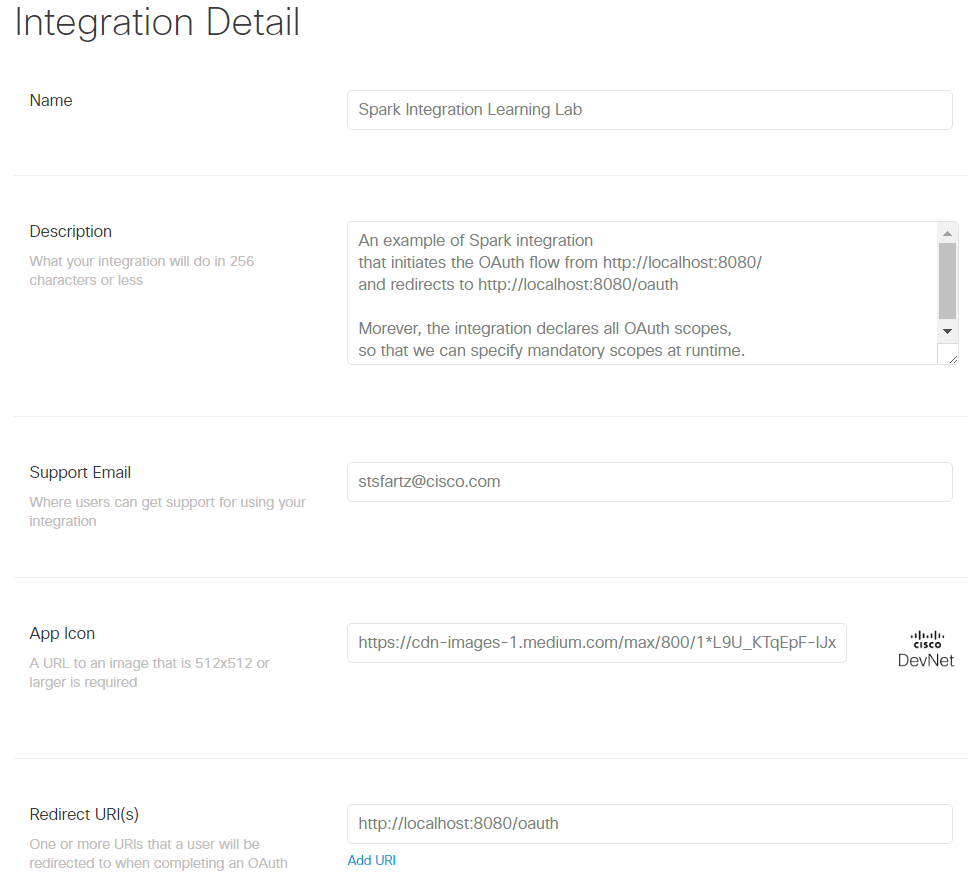
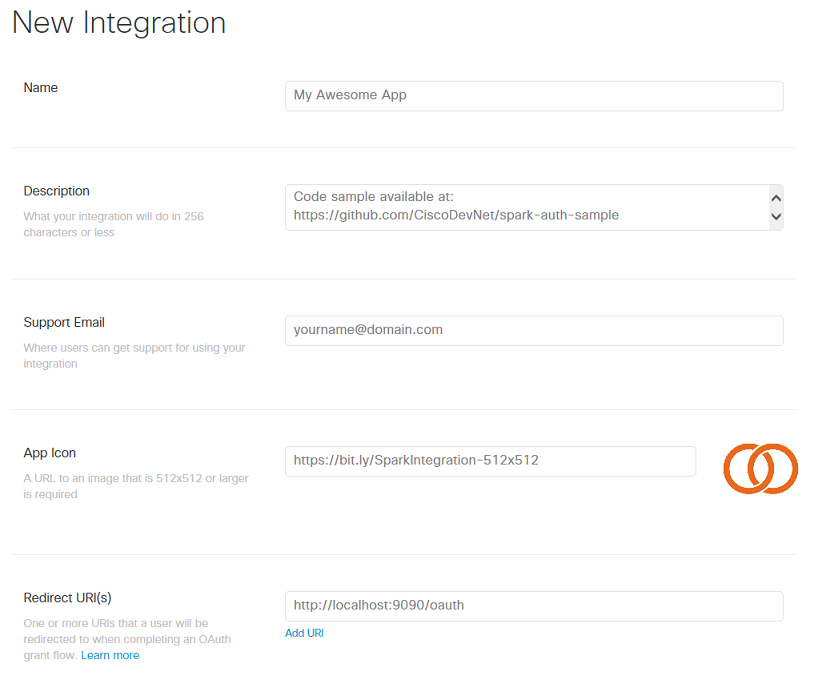
simplified instructions: introduced 9090 port, removed shell scripts samples

diff --git a/server.js b/server.js
@@ -25,7 +25,8 @@ var app = express();
 //
[2 lines of base64/hex data omitted]
-var redirectURI = process.env.REDIRECT_URI || "http://localhost:8080/oauth"; // where your integration is waiting for Cisco Spark to redirect and send the authorization code
+var port = process.env.PORT || 8080;
+var redirectURI = process.env.REDIRECT_URI || `http://localhost:${port}/oauth`; // where your integration is waiting for Cisco Spark to redirect and send the authorization code
 var state = process.env.STATE || "CiscoDevNet"; // state can be used for security and/or correlation purposes
 var scopes = "spark:people_read"; // extend permission with Spark OAuth scopes required by your example, supported scopes are: https://developer.ciscospark.com/add-integration.html
 
@@ -45,7 +46,7 @@ var initiateURL = "https://api.ciscospark.com/v1/authorize?"
     + "&state=" + state;
 var read = require("fs").readFileSync;
 var join = require("path").join;
-var str = read(join(__dirname, '/www/initiate.ejs'), 'utf8');
+var str = read(join(__dirname, '/www/index.ejs'), 'utf8');
 var ejs = require("ejs");
 var compiled = ejs.compile(str)({ "link": initiateURL }); // inject the link into the template
 app.get("/index.html", function (req, res) {
@@ -55,6 +56,7 @@ app.get("/index.html", function (req, res) {
 app.get("/", function (req, res) {
     res.redirect("/index.html");
 });
+
 // -------------------------------------------------------------
 // Statically serve the "/www" directory
 // WARNING: Do not move the 2 lines of code below, as we need this exact precedance order for the static and dynamic HTML generation to work correctly all together
@@ -228,19 +230,23 @@ function oauthFlowCompleted(access_token, res) {
         }
 
         // Uncomment to send feedback via static HTML code 
-        //res.send("<h1>OAuth Integration example for Cisco Spark (static HTML)</h1><p>So happy to meet, " + json.displayName + " !</p>");
+        // res.send("<h1>OAuth Integration example for Cisco Spark (static HTML)</h1><p>So happy to meet, " + json.displayName + " !</p>");
         // OR leverage an EJS template
+        var disconnectURL = "https://idbroker.webex.com/idb/oauth2/v1/logout?"
+        + "goto=" + encodeURIComponent(`http://localhost:${port}`)
+        + "&token=" + access_token;
         var str = read(join(__dirname, '/www/display-name.ejs'), 'utf8');
-        var compiled = ejs.compile(str)({ "displayName": json.displayName });
+        var compiled = ejs.compile(str)({ "displayName": json.displayName });        
         res.send(compiled);
     });
 }
+
 
 // The idea here is to store the access token for future use, and the expiration dates and refresh_token to have Cisco Spark issue a new access token
 function storeTokens(access_token, expires_in, refresh_token, refresh_token_expires_in) {
 
     // Store the token in some secure backend
-    debug("TODO: store tokens and expiration dates in a safe place");
+    debug("TODO: store tokens and expiration dates");
 
     // For demo purpose, we'll NOW ask for a refreshed token
     refreshAccessToken(refresh_token);
@@ -290,7 +296,6 @@ function refreshAccessToken(refresh_token) {
 
 
 // Starts the Cisco Spark Integration
-var port = process.env.OVERRIDE_PORT || process.env.PORT || 8080;
 app.listen(port, function () {
     debug("Cisco Spark OAuth Integration started on port: " + port);
 });

diff --git a/README.md b/README.md
@@ -2,7 +2,7 @@
 
 This Spark Integration example illustrates an OAuth Grant flow at the end of which the Spark User who granted permission will see his full name displayed.
 
-It comes as a companion to the [DevNet Learning Lab about creating Cisco Spark OAuth integrations](https://learninglabs.cisco.com/tracks/collab-cloud/spark-apps/collab-spark-intl/step/1).
+It comes as a companion to the DevNet learning lab: [Run a Cisco Spark Integration locally](https://learninglabs.cisco.com/tracks/collab-cloud/spark-apps/collab-spark-intl/step/1).
 
 ![](docs/img/OAuth-Flow-Sumpup.png)
 
@@ -13,67 +13,96 @@ The flow initiates at http://localhost:8080/, and Cisco Spark Oauth Flow redirec
 In real world, you'll register and deploy your integration on a public URL, check the guide below to [register your own integration](#https://github.com/CiscoDevNet/spark-integration-sample#to-register-your-own-spark-oauth-integration).
 
 
-## Run it locally
-
-This example leverages a pre-registered Spark integration with a Redirect URL on localhost so that it can be run with minimal setup:
+## Run the sample locally
 
 ``` bash
-> git clone https://github.com/CiscoDevNet/spark-integration-sample
-> cd spark-integration-sample
-> npm install
-> make
[1 lines of base64/hex data omitted]
-oauth Cisco Spark OAuth Integration started on port: 8080 +0ms
+git clone https://github.com/CiscoDevNet/spark-integration-sample
+cd spark-integration-sample
+npm install
+DEBUG=oauth* node server.js
 ```
 
-You're all set, your integration is live ! 
-Now, let's go through the OAuth flow.
+You're all set, the integration sample is live! 
+Let's go through the OAuth flow.
 
-Start by opening the Spark integration home page hosted at [http://localhost:8080](http://localhost:8080):
+Reach to the integration home page from a Web browser: open [http://localhost:8080](http://localhost:8080):
 
 ![](docs/img/OAuth-Flow-Step1-Initiate-From-EJS.png)
 
-Click Start, specify your Spark account email and accept (or decline) the authorization scopes:
+
+Click Start, enter your Spark account email and click accept (or decline):
 
 ![](docs/img/OAuth-Flow-Step2-User-Decline-Accept.png)
- 
-If you accepted, the Spark integration you're running locally just got issued an Access Token that can now act on your behalf.
+
+
+If you accepted, the Spark integration you're running locally just got issued an "Cisco Spark API access token" that the code can now act on your behalf.
 The integration custom code logic asks Cisco Spark for your Person details and displays your full name.
 
 ![](docs/img/OAuth-Flow-Step3-Custom-Logic.png)
 
 
-## How to register your own Spark OAuth Integration
+## Registering your own Spark OAuth Integration
 
 To learn more about Cisco Spark Integration, [read the reference documentation](https://developer.ciscospark.com/authentication.html).
 
-In the example above, we were running a pre-registered OAuth integration.
-Let's now register our own Cisco Spark integration.
+In the example above, we were running a pre-registered OAuth integration running on port 8080.
+Let's now register a new Cisco Spark integration that we will be running on port 9090.
 
-Go to [Spark for developers](https://developer.ciscospark.com) portal, click Apps, add Apps, and then [create an integration](https://developer.ciscospark.com/add-integration.html).
+Go to [Spark for developers](https://developer.ciscospark.com) portal, click 'Apps', 'add Apps', and then [create an integration](https://developer.ciscospark.com/add-integration.html).
 
-> The step by step guide below shows how to register a Spark Integration running on your local machine (localhost).
-> In the real-world, you will want to deploy your integration on the internet, and register its public URL rather than your local machine.
+Fill the form fields:
+- **Name**: your app name, such as 'My Awesome App' in the snapshot below,
+- **Description**: these details are not displayed to your app end-users,
+- **Support email**: a valid email address for Cisco Spark operations team to reach to you if necessary,
+- **App Icon**: an URL pointing to an image with a resolution of 512x512 pixels minimum. Feel free to use this provided sample for now: [https://bit.ly/SparkIntegration-512x512](https://bit.ly/SparkIntegration-512x512)
+- **Redirect URI**: enter `http://localhost:9090/oauth` since this is the URL at which the provided code sample will be listening on your local machine. More to come in the next steps if this lab
+- **Scopes**: select the `spark:people_read` and `spark:rooms_read` scopes. 
 
 ![](docs/img/OAuth-Flow-Step0-create-integration.png)
 
-Select all OAuth scopes by default, or simply go with the limited set of permissions your code really needs. 
-Note that even though we chose ALL scopes for now, we will [refine the scopes later in our code](https://github.com/CiscoDevNet/spark-integration-sample/blob/master/server.js#L30) in order to conform to our code's real needs.
 
-![](docs/img/OAuth-Flow-Step0-select-all-scopes.png)
+> Note the list of scopes you selected corresponds to the maximum set of scopes that your integration will be entitled to ask for. However, from code, your integration can dynamically [refine the set of scopes asked for](https://github.com/CiscoDevNet/spark-integration-sample/blob/master/server.js#L30) in order to comply with the real needs of your application. A good practice is to start small and extend the set of scopes asked for as the end-users gain trust in your app and is ready to ask more advanced features.
 
-Click save, and report your client id and client secret:
-- into [your code](https://github.com/CiscoDevNet/spark-integration-sample/blob/master/server.js#L26),
-- or set these env variables in a command shell: CLIENT\_ID, CLIENT\_SECRET, REDIRECT\_URI, STATE
-- or update the run command in your Project's [Makefile](https://github.com/CiscoDevNet/spark-integration-sample/blob/master/Makefile).
-
-![](docs/img/OAuth-Flow-Step0-oauth-settings-client-id-secret.png)
-
-You're all set.
-Start your integration, and give it a try !
+![](docs/img/OAuth-Flow-Step0-select-scopes.png)
 
 
-## More about Cisco Spark integrations ?
+Click save, and look for your integration `client id` and `client secret`.
+
+![](docs/img/OAuth-Flow-Step0-client-id-secret.png)
+
+
+Let's now configure the integration: you can either paste your integration client id and secret into [the code](https://github.com/CiscoDevNet/spark-integration-sample/blob/master/server.js#L26), or set these as env variables on the command line.
+
+Instructions for **Mac, Linux and Windows bash users** 
+- open a terminal
+- on a single command line, type:
+
+    ```shell
+    DEBUG=oauth* PORT=9090 REDIRECT_URI="http://localhost:9090/oauth" CLIENT_ID="YOUR_INTEGRATION_ID" CLIENT_SECRET="YOUR_INTEGRATION_SECRET"  node server.js
+    ```
+
+Instructions for **Windows command shell users**
+- open a command shell
+- enter the commands below:
+
+```shell
+set DEBUG="oauth*"
+set PORT=9090
+set REDIRECT_URI="http://localhost:8080/oauth" 
+set CLIENT_ID="YOUR_INTEGRATION_ID" 
+set CLIENT_SECRET="YOUR_INTEGRATION_SECRET" 
+node server.js
+```
+
+**You're all set. Restart your integration, and give it a try: [http://localhost:9090](http://localhost:9090)**
+
+
+This step by step guide explained how to register a Spark Integration running on a local developer environment.
+In the real-world, you will want to deploy your integration, and register its public URL rather than your local machine's.
+Check the DevNet learning lab: ['Deploy a Cisco Spark Integration'](https://learninglabs.cisco.com/tracks/devnet-express-cloud-collab-soft-dev/creating-spark-integrations-sd/collab-spark-intd-heroku/step/1) for detailled instructions.
+
+
+## More about Cisco Spark integrations
 
 Spark Apps incarn Cisco Spark’s extensibility. 
 
